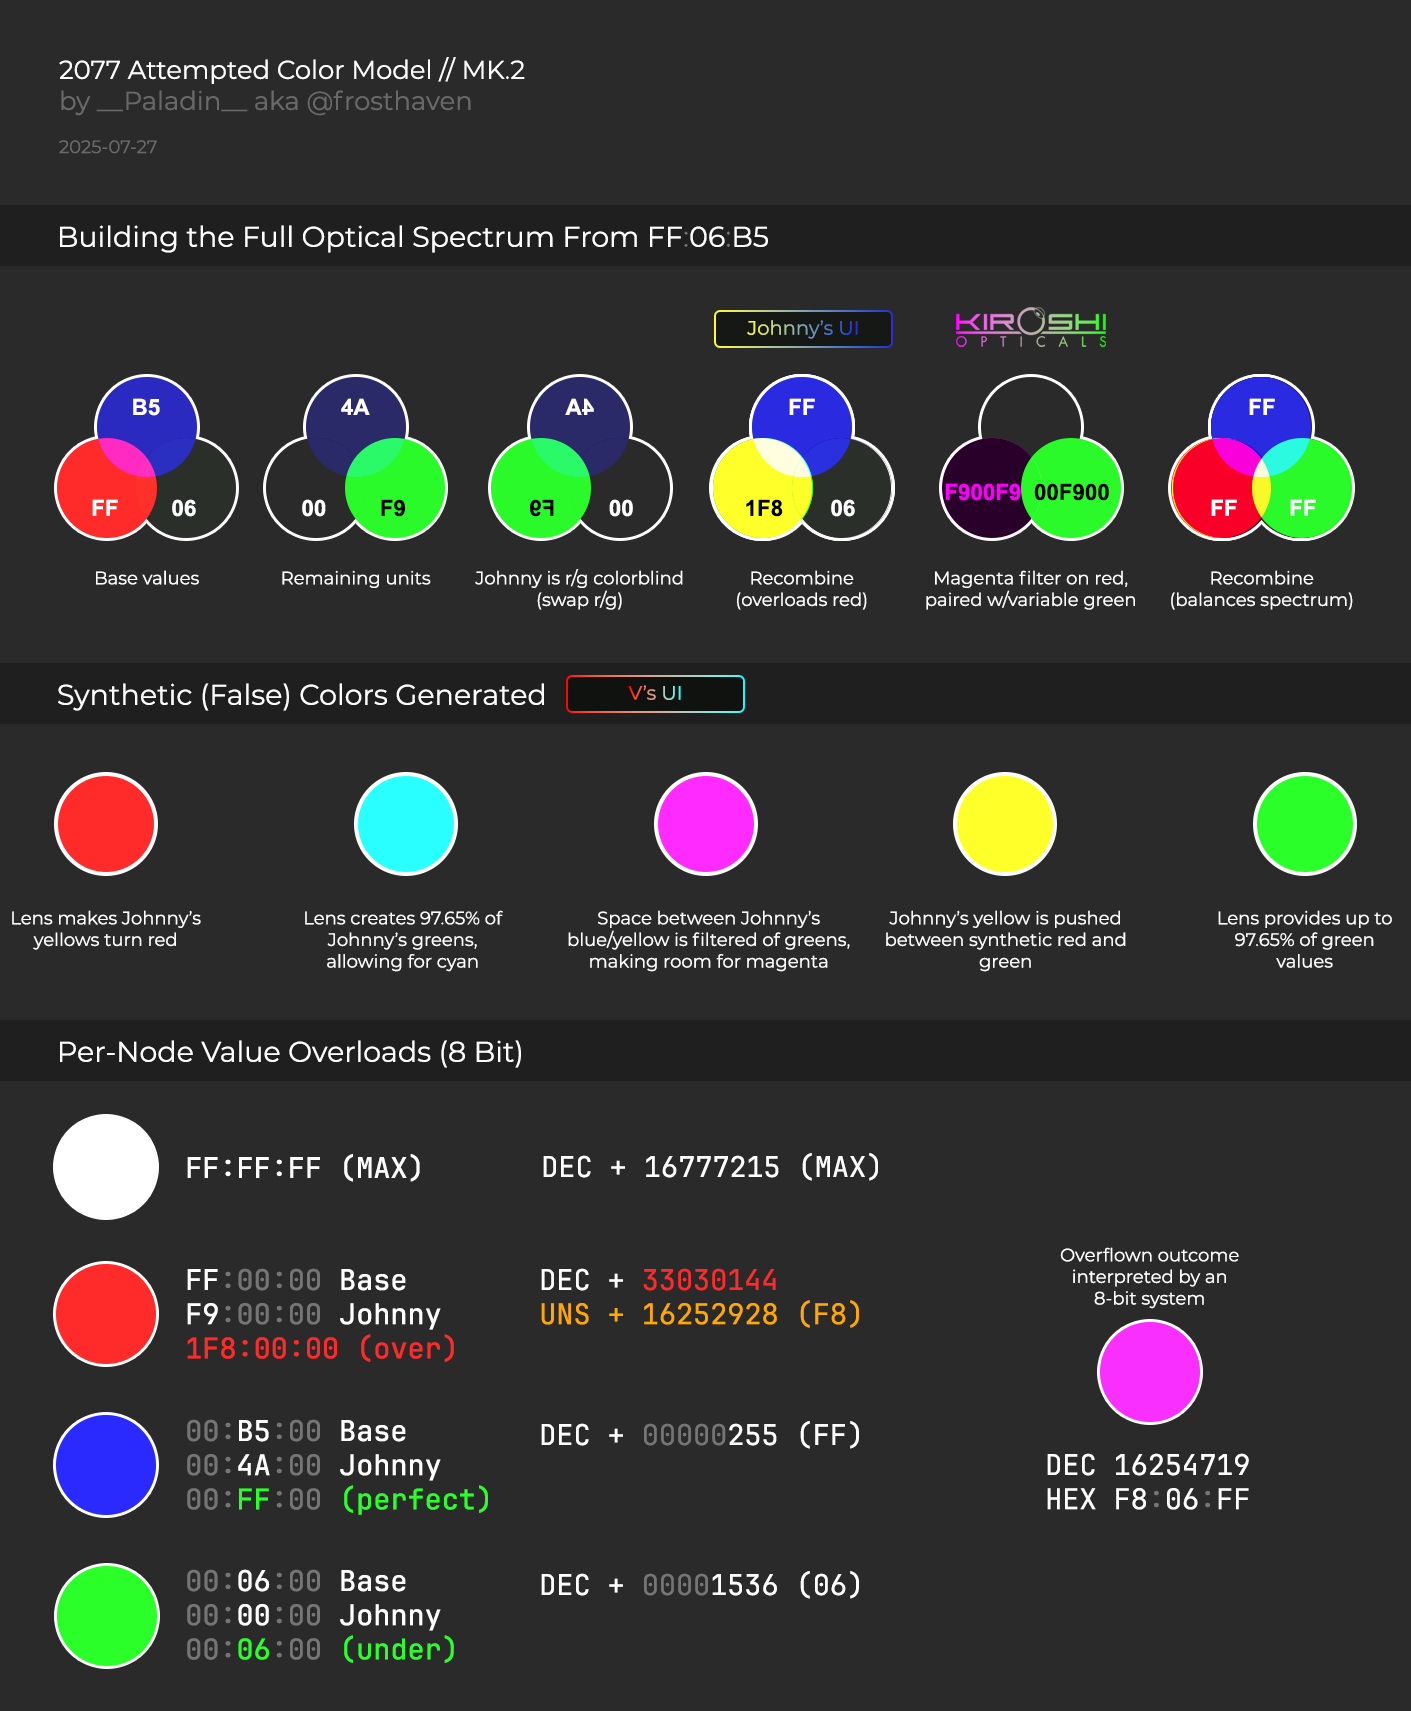
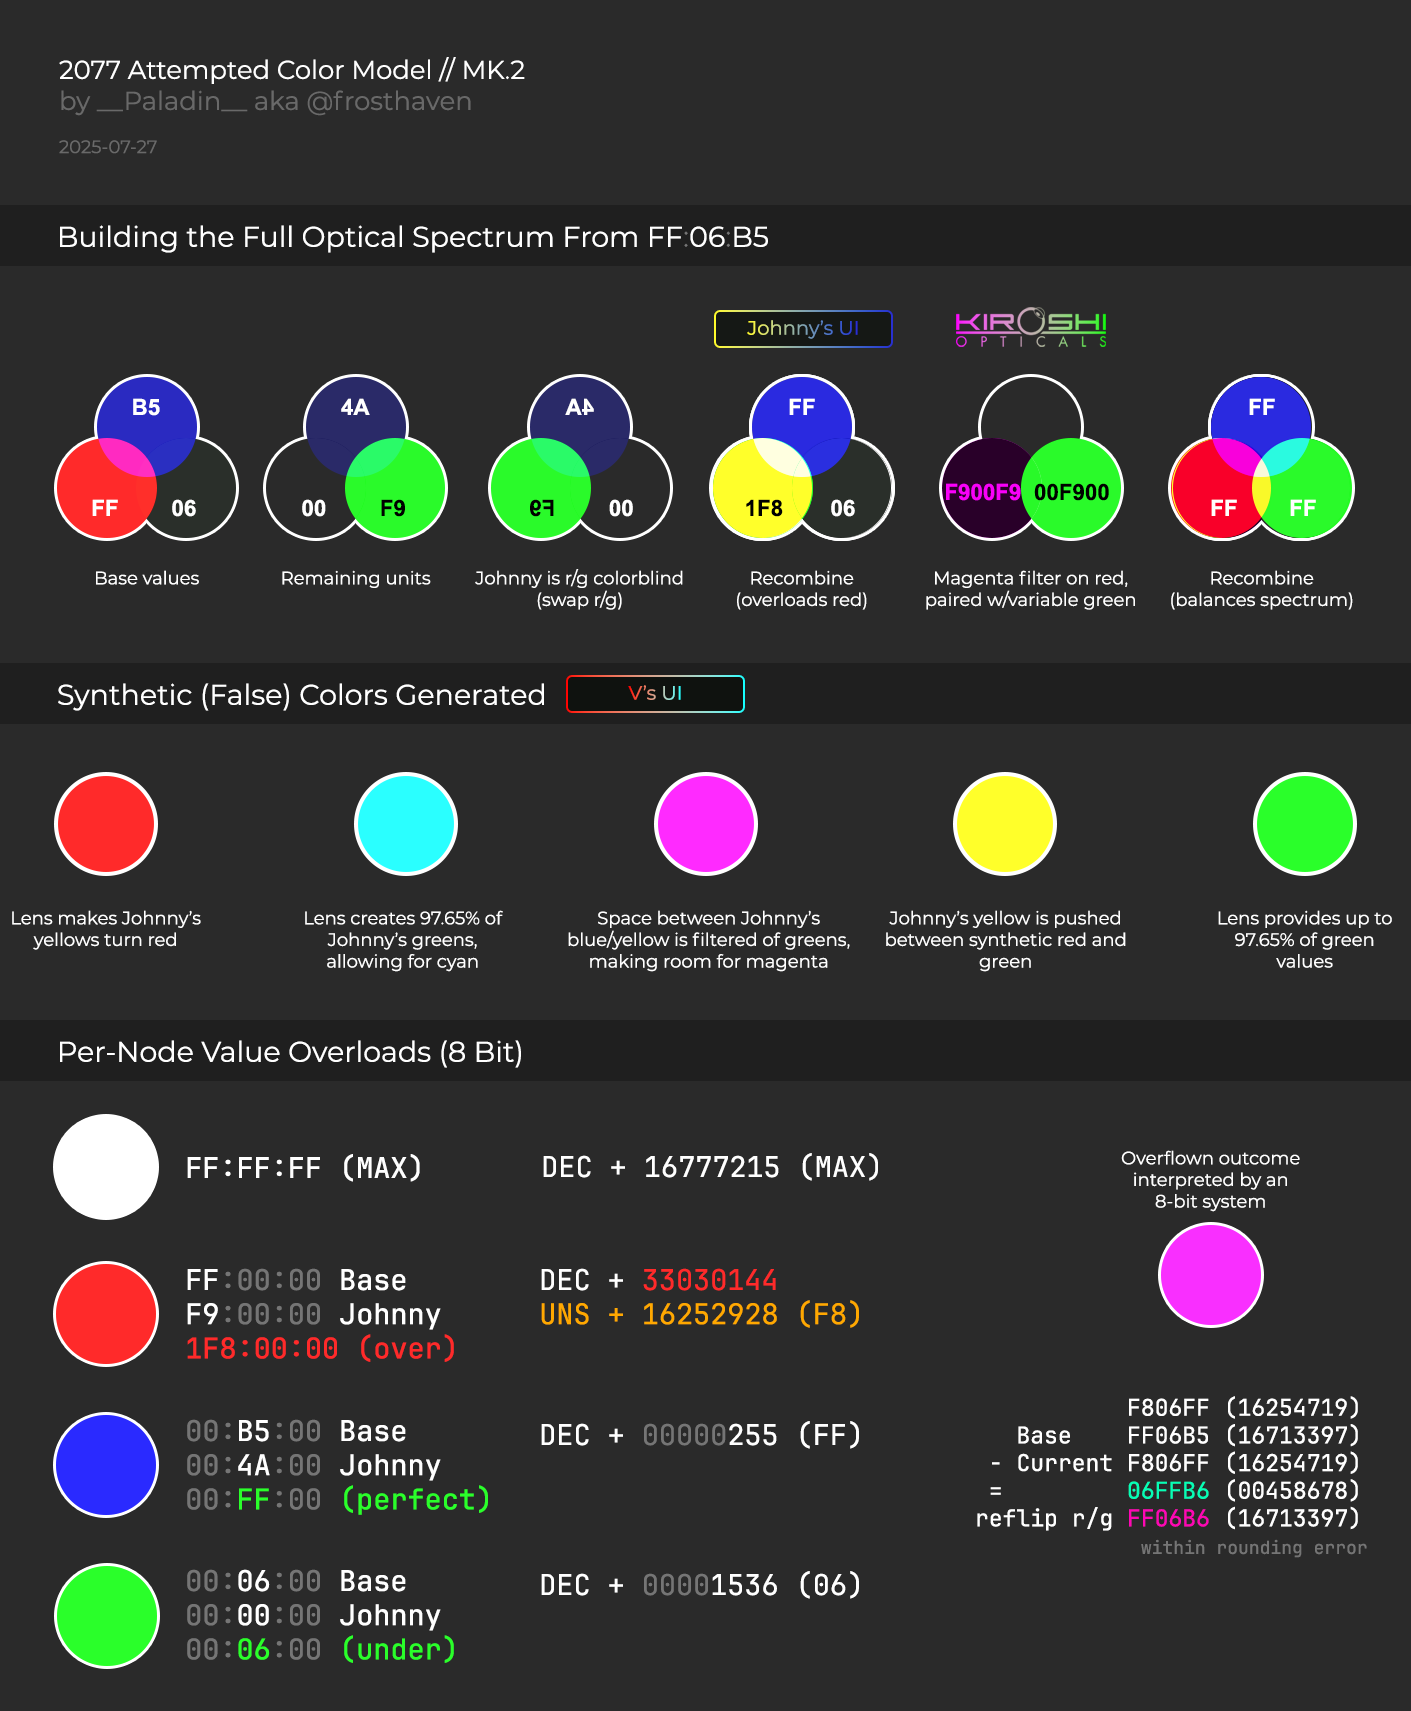
feat(color theory 3): updated model

Changed region(s): [[0.686, 0.6505, 0.9667, 0.8983]]

diff --git a/docs/Research/Around The City/theory-color-3.md b/docs/Research/Around The City/theory-color-3.md
@@ -79,8 +79,7 @@ yellow AND red, leading to the anomolies we see.
 I began modeling possible color systems that could represent what we see in
 game. The following 2 models are what I've come up with (still wip):
 
-![Color Model 1 (older). Click the image to enlarge.](./assets/color-3-breakdown.png){data-slider}
-![Color Model 2 (newer). Click the image to enlarge.](./assets/color-3-breakdown-2.png){data-slider}
+![Color Model Mk2. Click the image to enlarge.](./assets/color-3-breakdown-2.png){data-slider}
 
 It attempts to answer the following questions:
 
